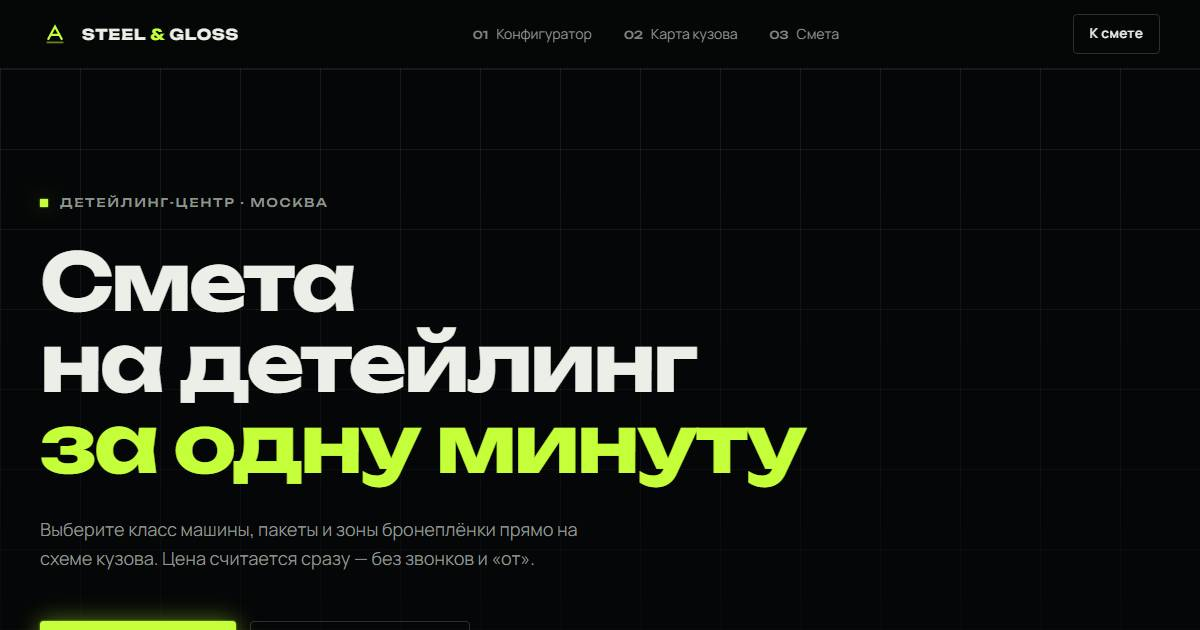
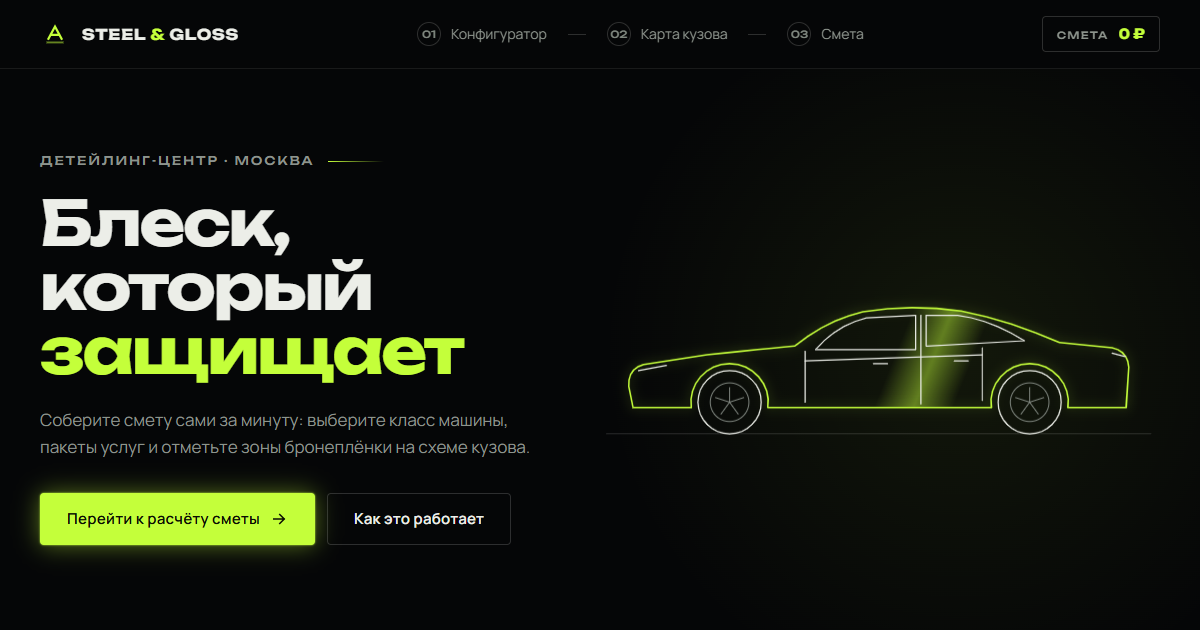
Правки по отчёту bughunter: «Коснитесь детали» на тач-экранах, крупнее зоны фар и дверей, схема шире на телефоне, имя «1» — ошибка про буквы, марка не длиннее 60, «расчёту» с ё; новое превью og.png; версии модулей v=3

diff --git a/index.html b/index.html
@@ -31,12 +31,12 @@
     {
       "imports": {
         "./js/pricing.js": "./js/pricing.js?v=2",
-        "./js/validation.js": "./js/validation.js?v=2",
+        "./js/validation.js": "./js/validation.js?v=3",
         "./js/persistence.js": "./js/persistence.js?v=2",
         "./js/store.js": "./js/store.js?v=2",
         "./js/nav.js": "./js/nav.js?v=2",
         "./js/configurator.js": "./js/configurator.js?v=2",
-        "./js/bodymap.js": "./js/bodymap.js?v=2",
+        "./js/bodymap.js": "./js/bodymap.js?v=3",
         "./js/estimate.js": "./js/estimate.js?v=2",
         "./js/phone-mask.js": "./js/phone-mask.js?v=2",
         "./js/form.js": "./js/form.js?v=2"
@@ -80,7 +80,7 @@
           <p class="hero__lead enter" style="--i:2">Соберите смету сами за минуту: выберите класс машины, пакеты услуг и отметьте зоны бронеплёнки на схеме кузова.</p>
           <div class="hero__actions enter" style="--i:3">
             <a class="btn btn--glow" href="calculator.html">
-              Перейти к расчету сметы
+              Перейти к расчёту сметы
               <svg viewBox="0 0 24 24" fill="none" stroke="currentColor" stroke-width="2" stroke-linecap="square" aria-hidden="true"><path d="M5 12h14M13 6l6 6-6 6"/></svg>
             </a>
             <a class="btn btn--line" href="#how">Как это работает</a>
@@ -208,7 +208,7 @@
           <h2 class="cta__title" id="cta-title">Узнайте стоимость за минуту</h2>
           <p class="cta__text">Без звонков и ожидания: соберите смету и отправьте заявку, когда будете готовы.</p>
           <a class="btn btn--glow" href="calculator.html">
-            Перейти к расчету сметы
+            Перейти к расчёту сметы
             <svg viewBox="0 0 24 24" fill="none" stroke="currentColor" stroke-width="2" stroke-linecap="square" aria-hidden="true"><path d="M5 12h14M13 6l6 6-6 6"/></svg>
           </a>
         </div>

diff --git a/js/bodymap.js b/js/bodymap.js
@@ -12,11 +12,11 @@ const SVG_NS = "http://www.w3.org/2000/svg";
 /* Контуры зон в координатах viewBox 0 0 240 480; фары — две фигуры в одной зоне */
 const ZONE_SHAPES = {
   "front-bumper": "M60 26 Q120 14 180 26 Q198 32 201 50 L39 50 Q42 32 60 26 Z",
-  "headlights": "M44 55 L80 55 L73 67 L45 65 Z M196 55 L160 55 L167 67 L195 65 Z",
+  "headlights": "M42 53 L82 53 L74 70 L44 68 Z M198 53 L158 53 L166 70 L196 68 Z",
   "hood": "M46 72 L194 72 L190 158 L50 158 Z",
   "roof": "M80 206 L160 206 Q166 206 166 212 L166 294 Q166 300 160 300 L80 300 Q74 300 74 294 L74 212 Q74 206 80 206 Z",
-  "doors-left": "M38 166 L62 166 Q67 250 62 334 L38 334 Q34 250 38 166 Z",
-  "doors-right": "M202 166 L178 166 Q173 250 178 334 L202 334 Q206 250 202 166 Z",
+  "doors-left": "M36 166 L66 166 Q71 250 66 334 L36 334 Q32 250 36 166 Z",
+  "doors-right": "M204 166 L174 166 Q169 250 174 334 L204 334 Q208 250 204 166 Z",
   "trunk": "M54 342 L186 342 L190 416 L50 416 Z",
   "rear-bumper": "M38 424 L202 424 Q200 448 182 456 Q120 466 58 456 Q40 448 38 424 Z"
 };
@@ -40,6 +40,9 @@ export function initBodyMap() {
   const focusName = focusBox.querySelector(".panel__name");
   const focusPrice = focusBox.querySelector(".panel__price");
 
+  // На тач-экранах наведения нет — подсказка про касание
+  const idleText = window.matchMedia("(hover: none)").matches ? "Коснитесь детали" : "Наведите на деталь";
+  focusName.textContent = idleText;
   let current = getState();
   let shownZone = null;
   const shapes = new Map();
@@ -63,7 +66,7 @@ export function initBodyMap() {
 
   function clearFocus() {
     shownZone = null;
-    focusName.textContent = "Наведите на деталь";
+    focusName.textContent = idleText;
     focusPrice.textContent = "—";
   }
 

diff --git a/map.html b/map.html
@@ -25,18 +25,18 @@
   <link rel="stylesheet" href="https://fonts.googleapis.com/css2?family=Manrope:wght@400;500;600;700&family=Unbounded:wght@500;700&display=swap" media="print" onload="this.media='all'" />
   <noscript><link rel="stylesheet" href="https://fonts.googleapis.com/css2?family=Manrope:wght@400;500;600;700&family=Unbounded:wght@500;700&display=swap" /></noscript>
   <link rel="stylesheet" href="css/base.css?v=2" />
-  <link rel="stylesheet" href="css/map.css?v=2" />
+  <link rel="stylesheet" href="css/map.css?v=3" />
   <!-- Версии всех JS-модулей в одном месте (одинаковый блок во всех 4 страницах) -->
   <script type="importmap">
     {
       "imports": {
         "./js/pricing.js": "./js/pricing.js?v=2",
-        "./js/validation.js": "./js/validation.js?v=2",
+        "./js/validation.js": "./js/validation.js?v=3",
         "./js/persistence.js": "./js/persistence.js?v=2",
         "./js/store.js": "./js/store.js?v=2",
         "./js/nav.js": "./js/nav.js?v=2",
         "./js/configurator.js": "./js/configurator.js?v=2",
-        "./js/bodymap.js": "./js/bodymap.js?v=2",
+        "./js/bodymap.js": "./js/bodymap.js?v=3",
         "./js/estimate.js": "./js/estimate.js?v=2",
         "./js/phone-mask.js": "./js/phone-mask.js?v=2",
         "./js/form.js": "./js/form.js?v=2"
@@ -48,7 +48,7 @@
   <link rel="modulepreload" href="js/persistence.js?v=2" />
   <link rel="modulepreload" href="js/store.js?v=2" />
   <link rel="modulepreload" href="js/nav.js?v=2" />
-  <link rel="modulepreload" href="js/bodymap.js?v=2" />
+  <link rel="modulepreload" href="js/bodymap.js?v=3" />
   <script type="module" src="js/pages/map.js?v=2" blocking="render"></script>
 </head>
 <body data-page="map" class="has-step-bar">

diff --git a/checkout.html b/checkout.html
@@ -31,12 +31,12 @@
     {
       "imports": {
         "./js/pricing.js": "./js/pricing.js?v=2",
-        "./js/validation.js": "./js/validation.js?v=2",
+        "./js/validation.js": "./js/validation.js?v=3",
         "./js/persistence.js": "./js/persistence.js?v=2",
         "./js/store.js": "./js/store.js?v=2",
         "./js/nav.js": "./js/nav.js?v=2",
         "./js/configurator.js": "./js/configurator.js?v=2",
-        "./js/bodymap.js": "./js/bodymap.js?v=2",
+        "./js/bodymap.js": "./js/bodymap.js?v=3",
         "./js/estimate.js": "./js/estimate.js?v=2",
         "./js/phone-mask.js": "./js/phone-mask.js?v=2",
         "./js/form.js": "./js/form.js?v=2"
@@ -48,7 +48,7 @@
   <link rel="modulepreload" href="js/persistence.js?v=2" />
   <link rel="modulepreload" href="js/store.js?v=2" />
   <link rel="modulepreload" href="js/nav.js?v=2" />
-  <link rel="modulepreload" href="js/validation.js?v=2" />
+  <link rel="modulepreload" href="js/validation.js?v=3" />
   <link rel="modulepreload" href="js/estimate.js?v=2" />
   <link rel="modulepreload" href="js/phone-mask.js?v=2" />
   <link rel="modulepreload" href="js/form.js?v=2" />
@@ -112,7 +112,7 @@
           </div>
           <div class="field">
             <label for="fieldCar">Марка и модель</label>
-            <input id="fieldCar" name="car" type="text" autocomplete="off" placeholder="Например, BMW X5" aria-describedby="errorCar" />
+            <input id="fieldCar" name="car" type="text" maxlength="60" autocomplete="off" placeholder="Например, BMW X5" aria-describedby="errorCar" />
             <p class="field__error" id="errorCar"></p>
           </div>
           <p class="field__error form__estimate-error" id="errorEstimate" tabindex="-1" role="alert"></p>

diff --git a/js/validation.js b/js/validation.js
@@ -5,6 +5,7 @@
 
 const PREFIX = "+7 (";
 const NATIONAL_LENGTH = 10;
+export const CAR_MAX_LENGTH = 60;
 
 /* Цифры номера без кода страны (ввод с 8, 7, +7). Ведущая 7/8 — код страны, только если:
    строка начинается с «+7» или «7 (» / «8 (», номер набран целиком (11 цифр)
@@ -135,11 +136,11 @@ export function validateName(value) {
   if (name.length === 0) {
     return "Введите имя";
   }
-  if (name.length < 2) {
-    return "Имя — минимум 2 символа";
-  }
   if (!/^[A-Za-zА-Яа-яЁё\s-]+$/.test(name)) {
     return "Только буквы, пробел и дефис";
+  }
+  if (name.length < 2) {
+    return "Имя — минимум 2 символа";
   }
   return "";
 }
@@ -165,6 +166,9 @@ export function validateCar(value) {
   }
   if (car.length < 2) {
     return "Минимум 2 символа";
+  }
+  if (car.length > CAR_MAX_LENGTH) {
+    return "Не длиннее " + CAR_MAX_LENGTH + " символов";
   }
   return "";
 }

diff --git a/calculator.html b/calculator.html
@@ -31,12 +31,12 @@
     {
       "imports": {
         "./js/pricing.js": "./js/pricing.js?v=2",
-        "./js/validation.js": "./js/validation.js?v=2",
+        "./js/validation.js": "./js/validation.js?v=3",
         "./js/persistence.js": "./js/persistence.js?v=2",
         "./js/store.js": "./js/store.js?v=2",
         "./js/nav.js": "./js/nav.js?v=2",
         "./js/configurator.js": "./js/configurator.js?v=2",
-        "./js/bodymap.js": "./js/bodymap.js?v=2",
+        "./js/bodymap.js": "./js/bodymap.js?v=3",
         "./js/estimate.js": "./js/estimate.js?v=2",
         "./js/phone-mask.js": "./js/phone-mask.js?v=2",
         "./js/form.js": "./js/form.js?v=2"

diff --git a/css/map.css b/css/map.css
@@ -61,6 +61,6 @@
 }
 @media (max-width: 560px) {
   .bodymap__stage { padding: var(--space-5) var(--space-2) var(--space-3); }
-  .car { max-width: 230px; }
+  .car { max-width: 290px; }
   .panel { padding: var(--space-3) var(--space-2); }
 }

diff --git a/README.md b/README.md
@@ -12,7 +12,7 @@
 
 | Страница | Что на ней |
 |---|---|
-| `index.html` | Презентация центра. SVG-машина «прорисовывается» линиями, по ней бежит блик. Кнопка «Перейти к расчету сметы». |
+| `index.html` | Презентация центра. SVG-машина «прорисовывается» линиями, по ней бежит блик. Кнопка «Перейти к расчёту сметы». |
 | `calculator.html` | **Шаг 1.** Класс машины (radio): седан ×1.0, кроссовер ×1.2, внедорожник ×1.4. Пакеты (checkbox): цена уже с коэффициентом класса. При наведении карточка увеличивается до 1.02 и у неё проявляется неоновая граница. |
 | `map.html` | **Шаг 2.** SVG-карта кузова: схема проявляется из размытия, зоны появляются по очереди. Восемь зон работают мышью и с клавиатуры (Tab → Enter/Space). Полная оклейка включает все зоны и блокирует точечный выбор. Если зоны дороже полной оклейки, появляется подсказка с экономией. Клики по стёклам, колёсам и зеркалам ничего не выбирают. |
 | `checkout.html` | **Шаг 3.** Детальная смета в порядке прайса, итог плавно «перебегает» к новому числу. Форма с маской телефона и своей валидацией, модальное окно «Заявка принята» на нативном `<dialog>`, кнопка «Начать новый расчёт». |
